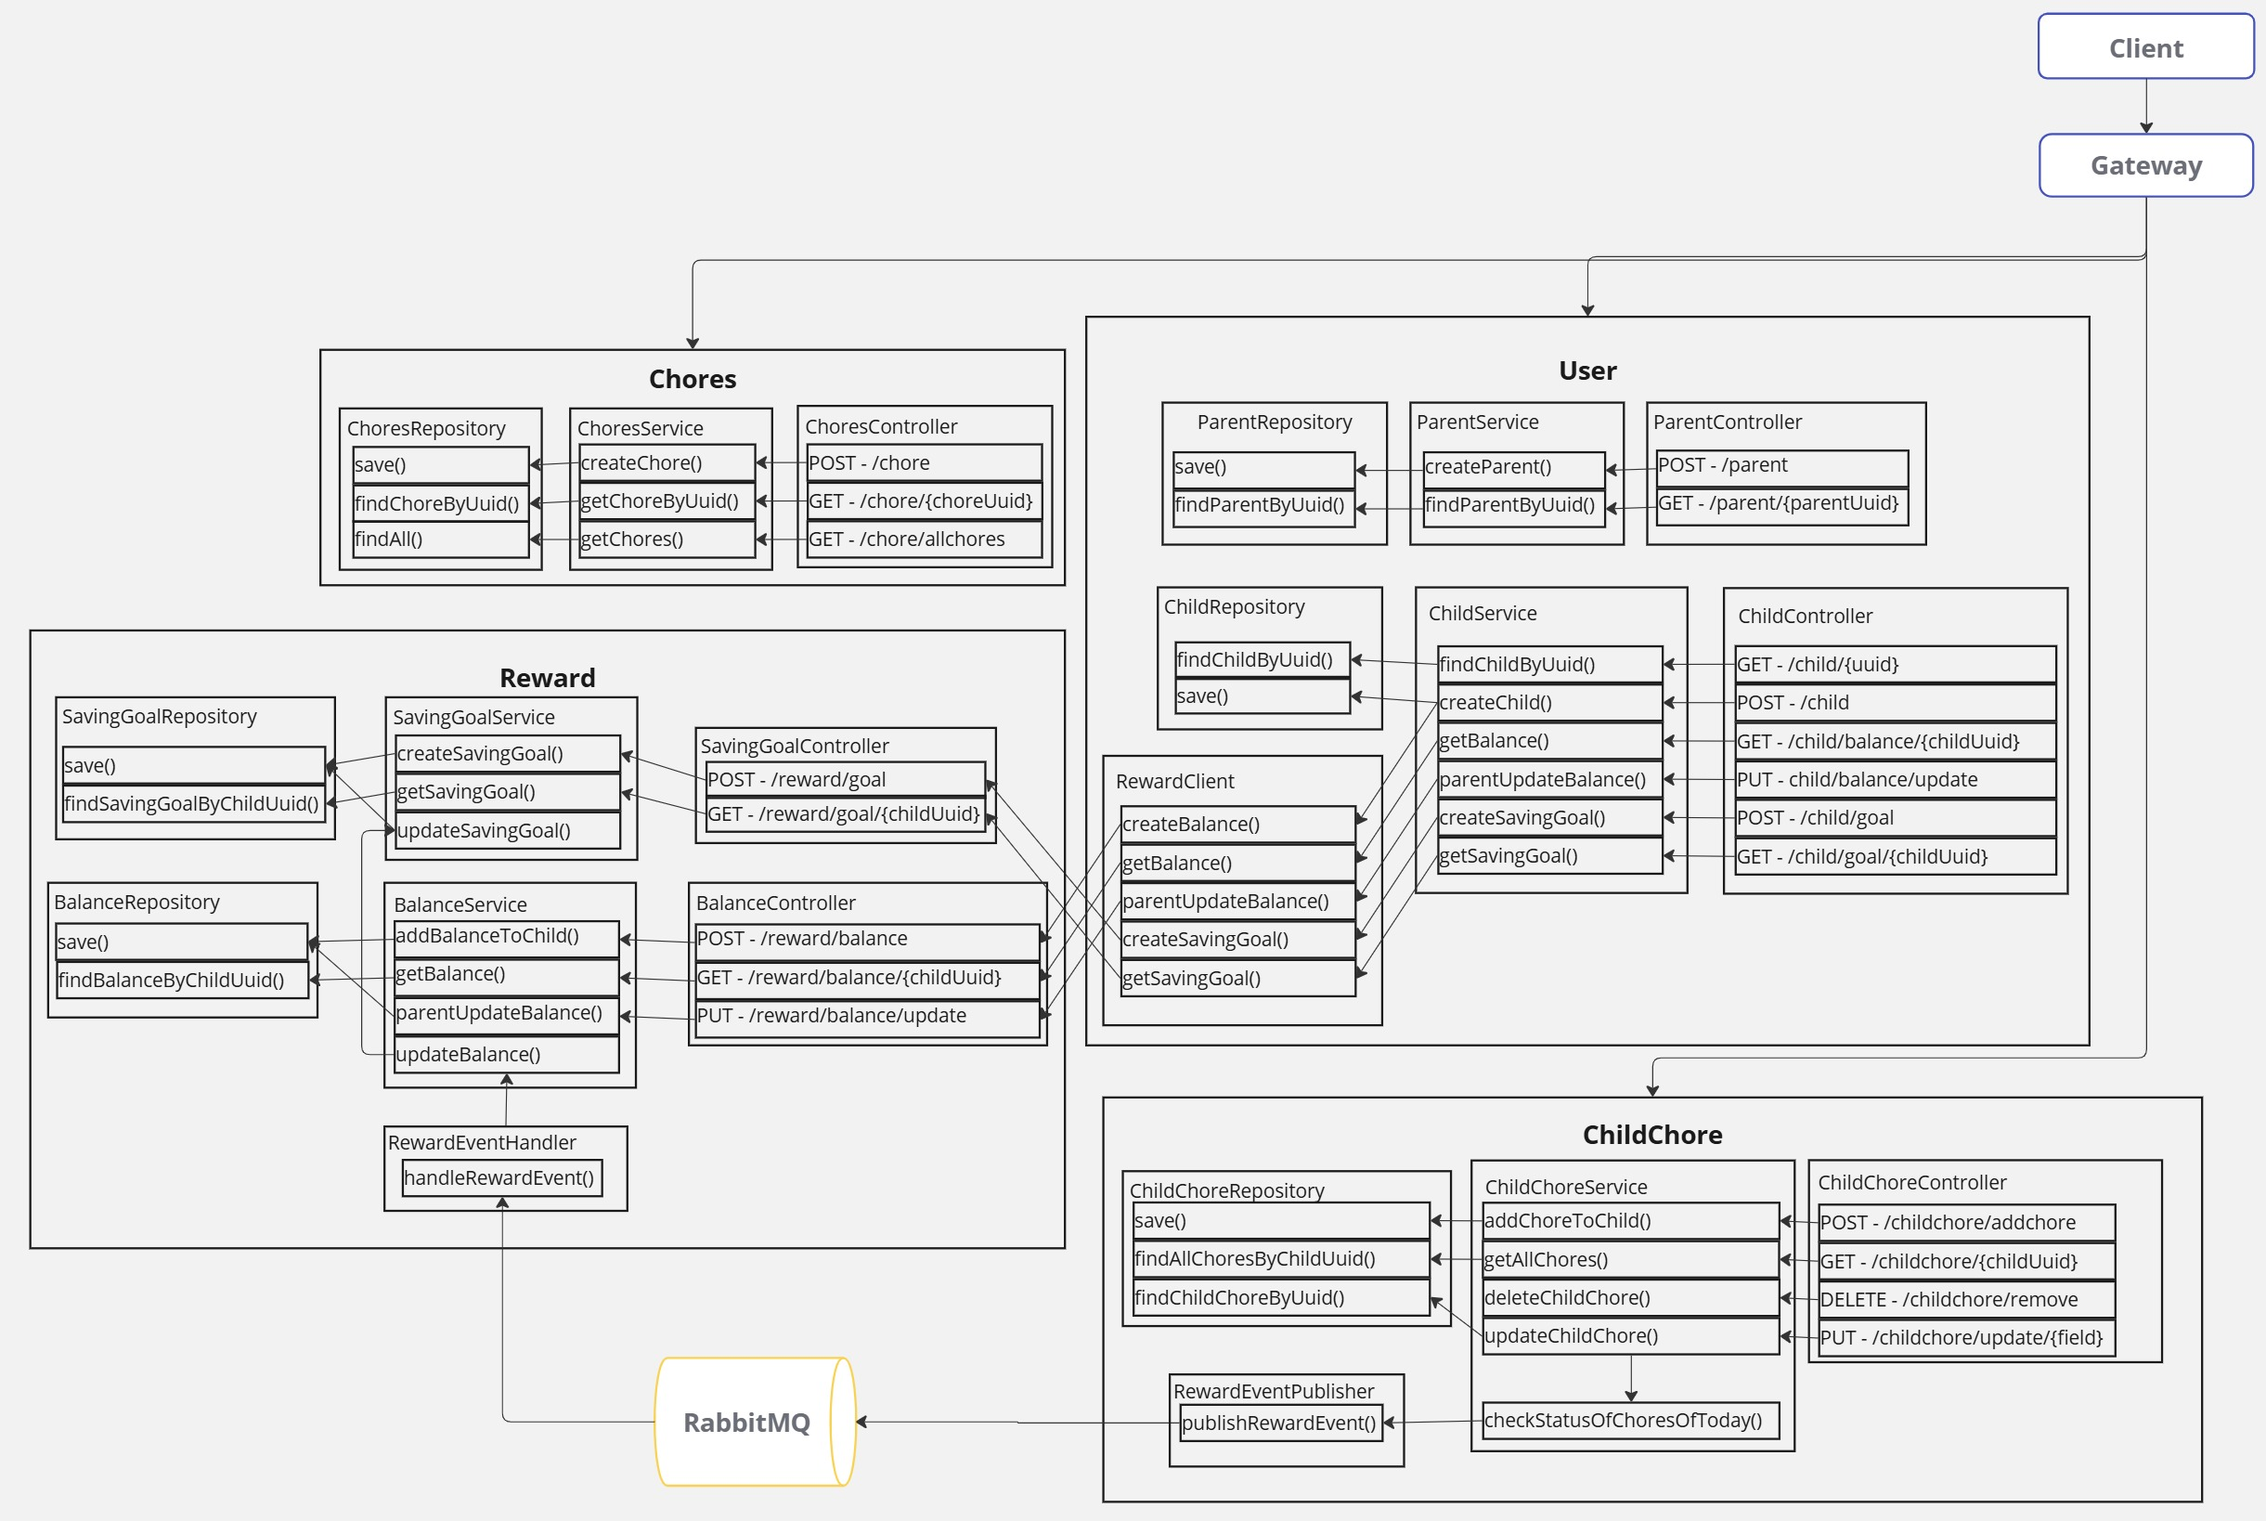
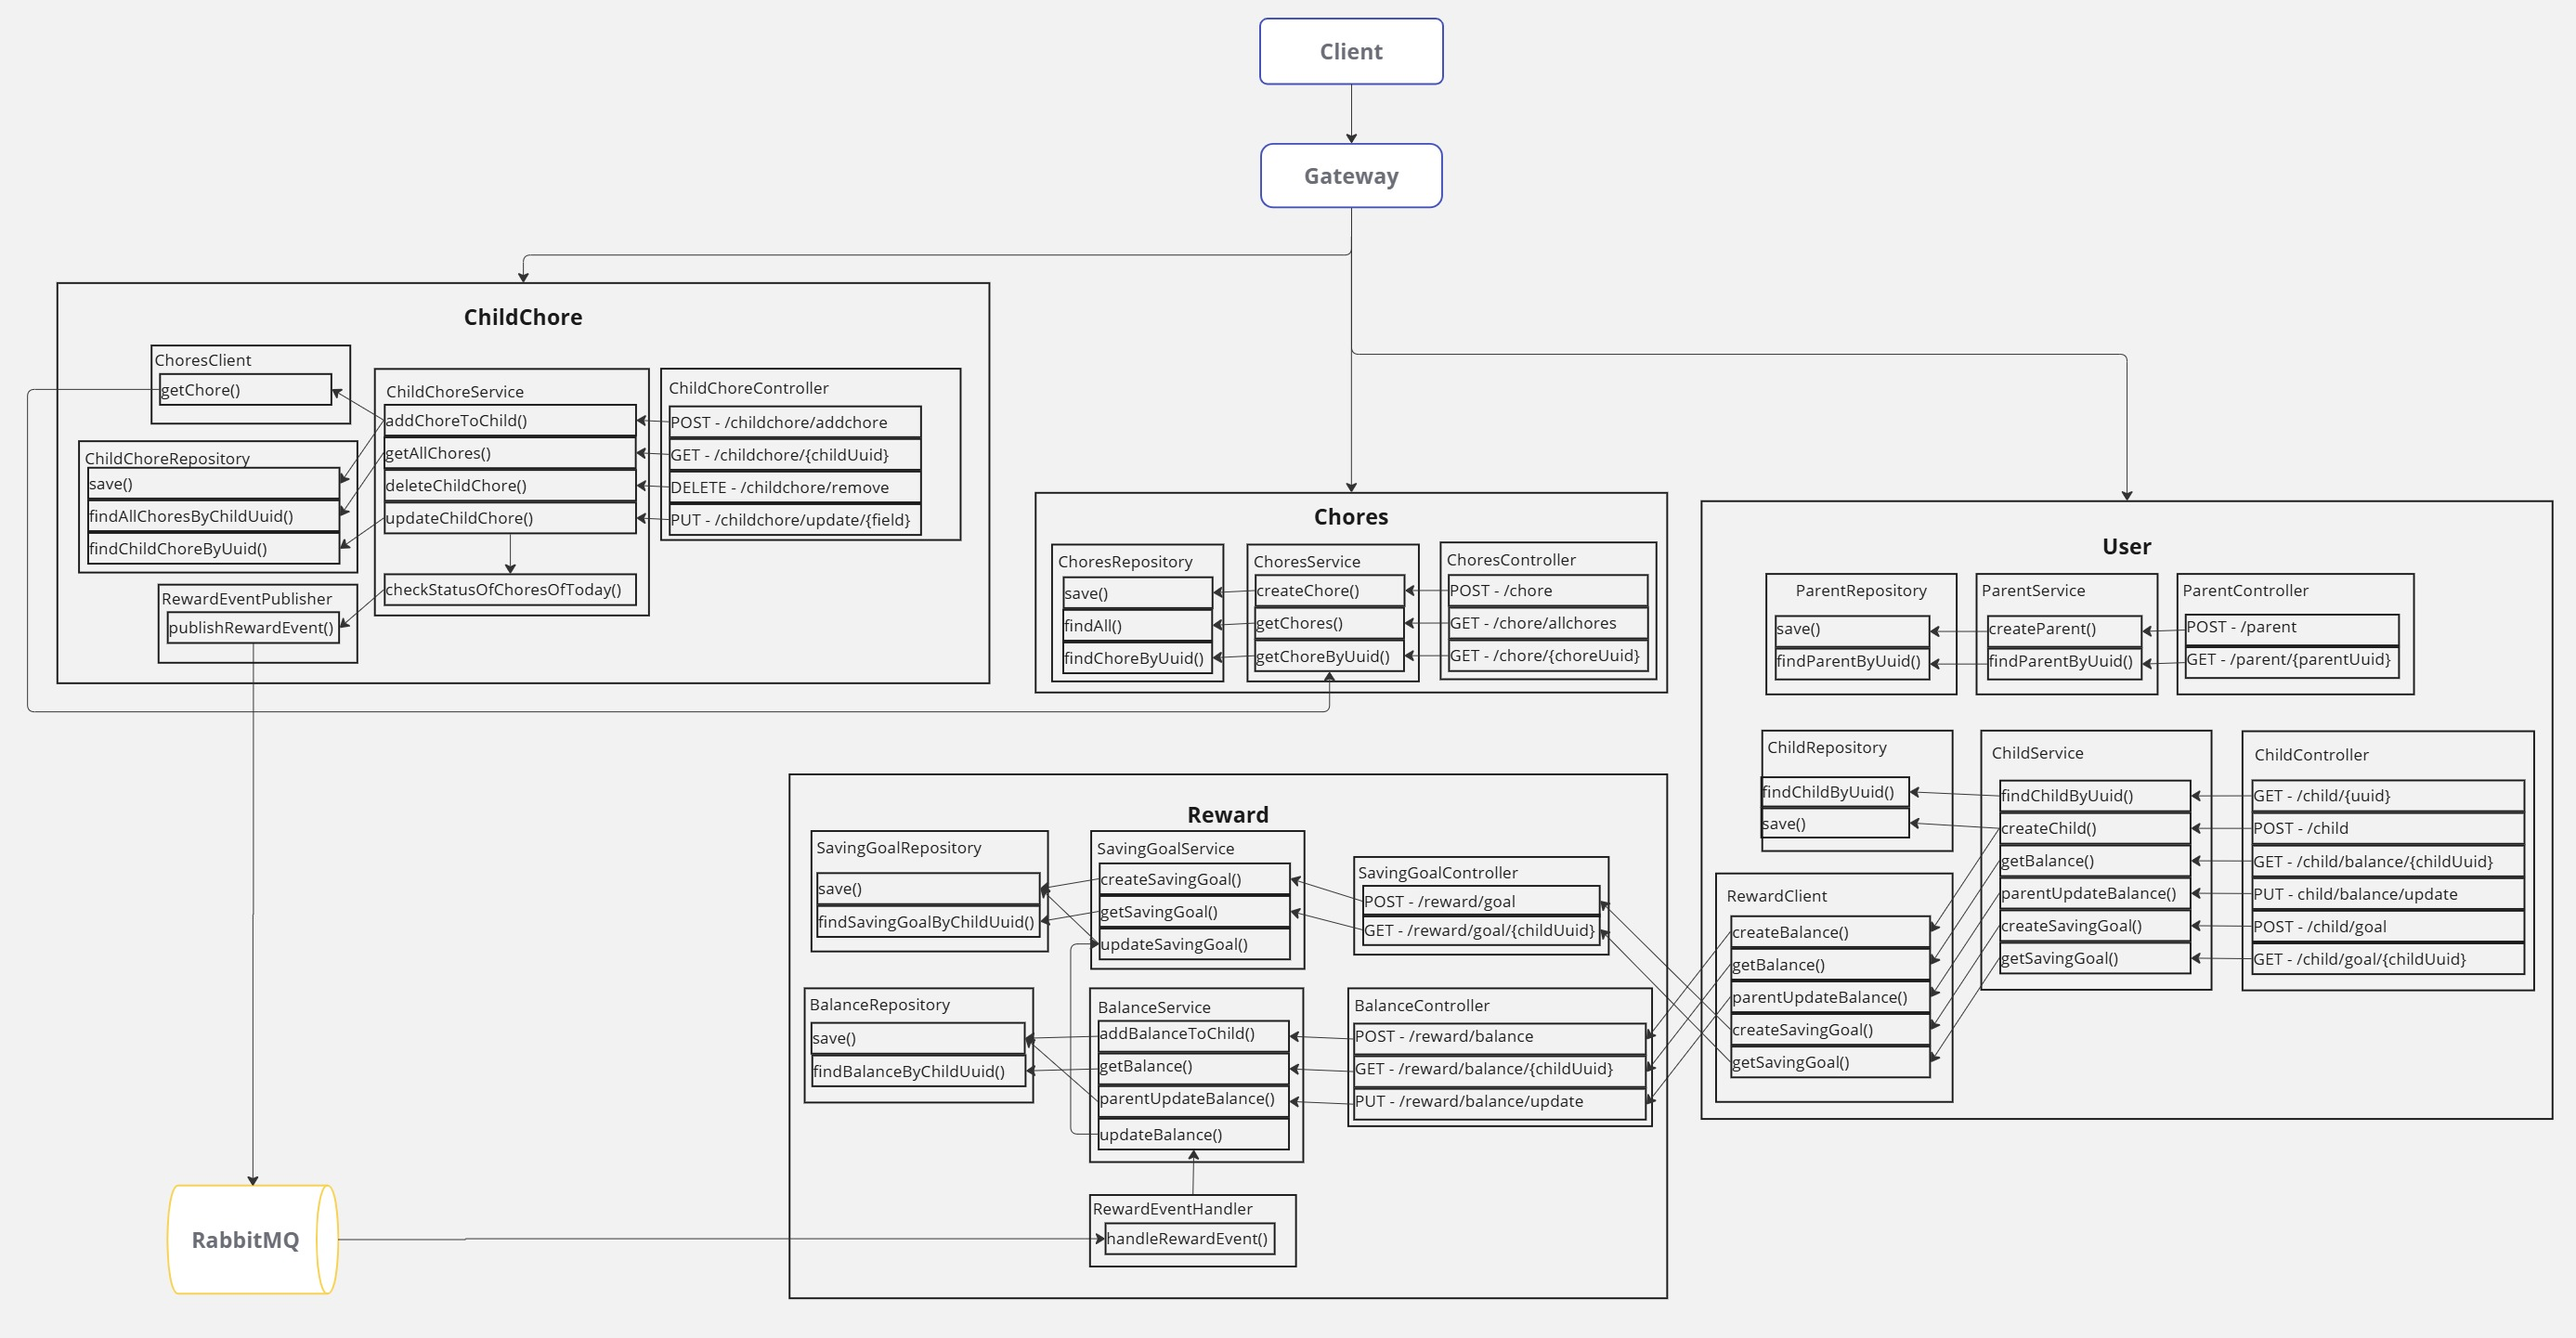
updated README and the architecture diagram

diff --git a/README.md b/README.md
@@ -87,7 +87,7 @@ it to adapt to changes in real time and maintain seamless communication between 
 This service exports configurations to Consul, then terminates.
 
 - ### user
-The service has the responsibility for managing the user profiles.</br>
+The service is responsible for managing the user profiles.</br>
 The service has its own database with the tables
 - parent
 - child
@@ -101,14 +101,15 @@ The service has its own database with the tables
 - saving_goal
 
 - ### chores
-The service has the responsibility for creating and storing chores from a database.</br> 
+The service is responsible for creating, storing, and retrieving chores from the database.</br> 
 The service has its own database with the table chore
 
 - ### childChore
-The service has the responsibility for managing the child’s chores and to check the 
+The service is responsible for managing the child’s chores and to check the 
 status of the child’s chores of the day. If all the chores of the day are completed, the 
 ChildChore service sends a message to RabbitMQ containing the child’s chores of the 
-day.</br>
+day. When a chore is added to a child, a call is made to the Chores service to validate whether the chore 
+exists in the database.</br>
 The service has its own database with the table child_chore
 
 ## User stories
